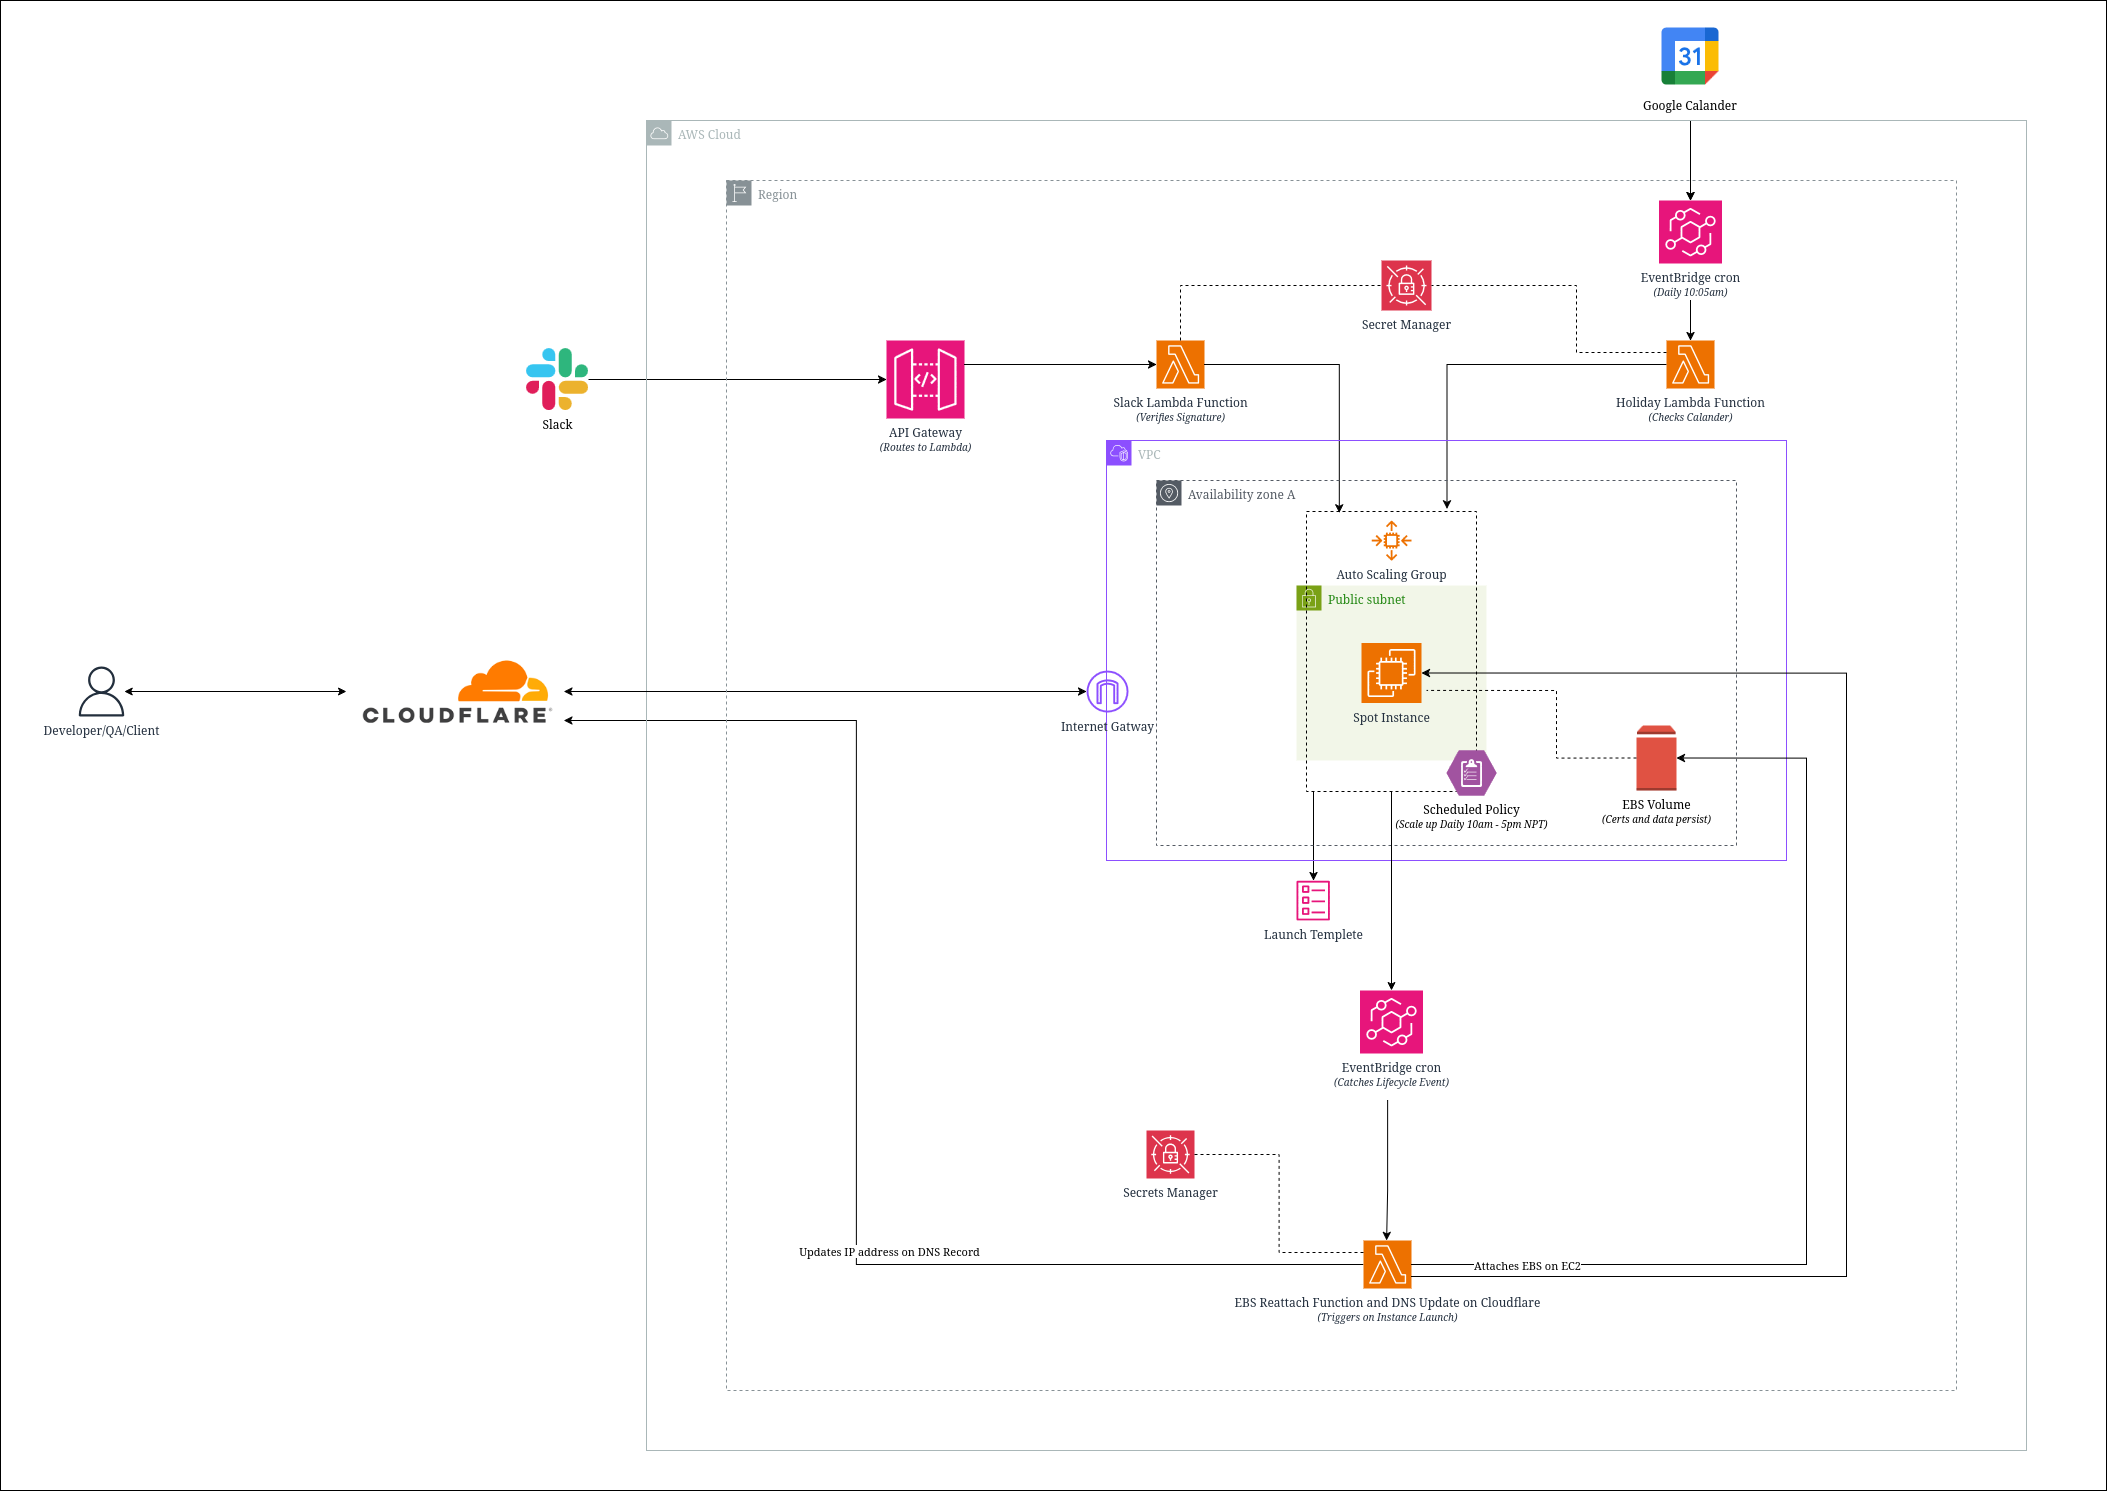
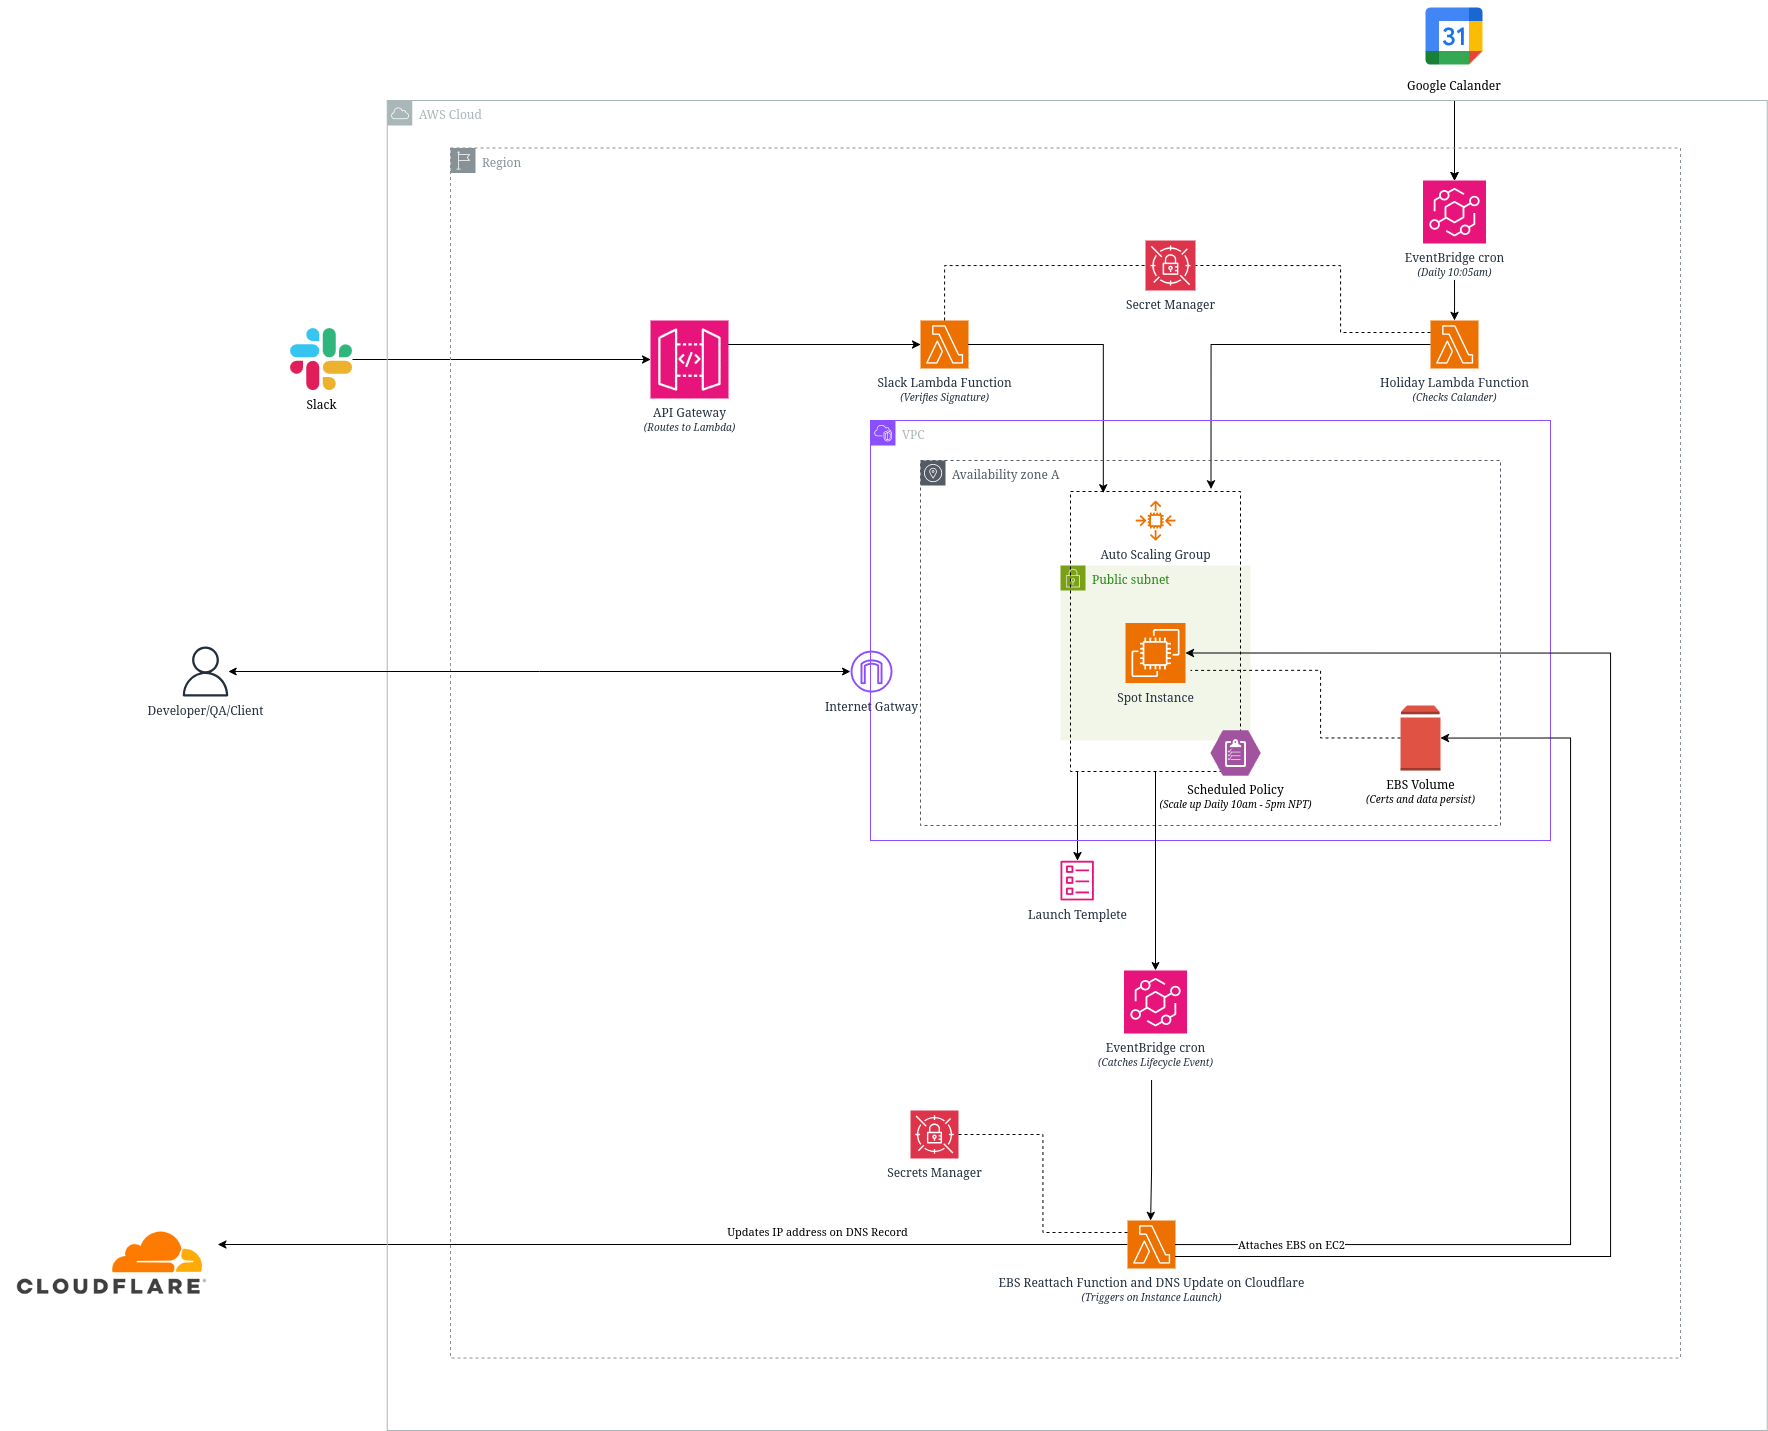
Update architecture diagram and fix tfvars example formatting
- Added final architecture-diagram.png showing the corrected Cloudflare
  DNS flow (DNS-only lookup, not proxied traffic), the dual-purpose
  EBS Reattach Function, and separated Secrets Manager sources
- Fixed a stray em dash in terraform.tfvars.example's header comment

diff --git a/readme.md b/readme.md
@@ -196,7 +196,3 @@ Based on `ap-south-1`, a `t3.medium`-class instance, roughly 35 working hours a 
 | Lambda, API Gateway, EventBridge | ~$0 at this volume |
 | CloudWatch Logs | ~$0.05 |
 | **Total** | **~$4.95 – $5.65/month** |
-
-## License
-
-Add your preferred license here (MIT is a common default for infrastructure repos like this).